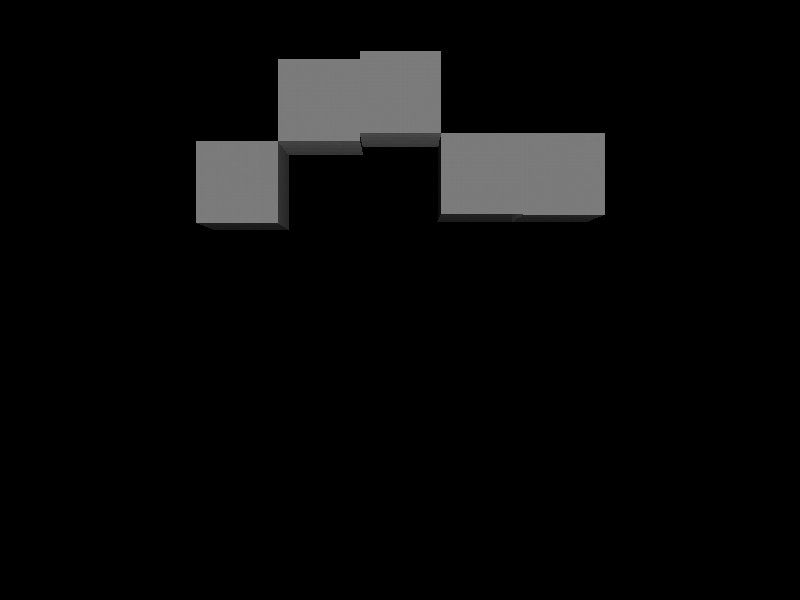
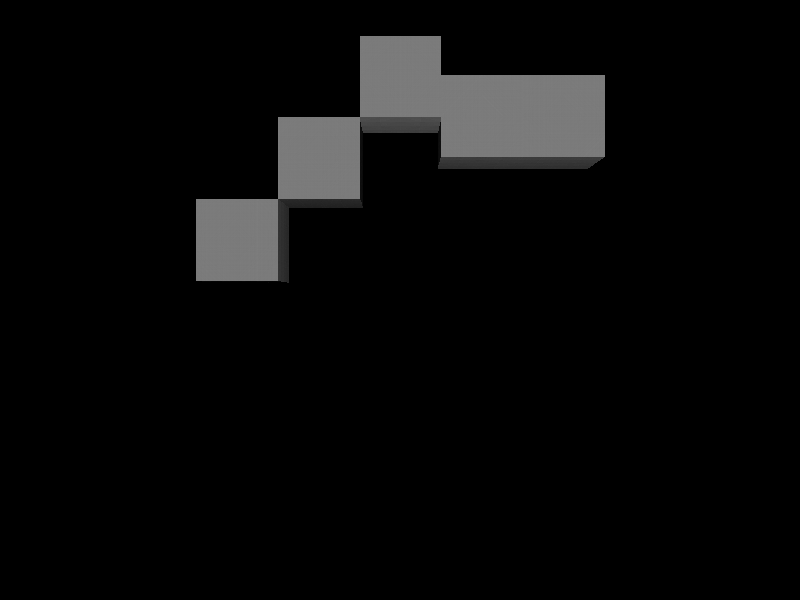
Draw z buffer

Changed region(s): [[0.2188, 0.06, 0.7812, 0.48]]

diff --git a/src/software_renderer.c b/src/software_renderer.c
@@ -4,6 +4,8 @@ static render_state RenderState;
 
 static mat4 Proj;
 
+#define DRAW_Z_BUFFER 1
+
 inline i32 Barycentric(v3 A, v3 B, v3 C) {
   i32 Result = 0;
 
@@ -78,10 +80,15 @@ inline void DrawFilledTriangle(framebuffer* FrameBuffer, i32* ZBuffer, v3 A, v3 
         Z += (B.Z * W1);
         Z += (C.Z * W2);
 
-        i32 Index = P.X + (P.Y * FrameBuffer->Width);
+        i32 Index = ((FrameBuffer->Height - P.Y) * FrameBuffer->Width) + P.X;
         if (ZBuffer[Index] > Z) {
           ZBuffer[Index] = Z;
+#if DRAW_Z_BUFFER
+          u8 Value = Abs(ZBuffer[Index]);
+          DrawPixel(FrameBuffer, P.X, P.Y, Value, Value, Value);
+#else
           DrawPixel(FrameBuffer, P.X, P.Y, ColorR, ColorG, ColorB);
+#endif
         }
       }
     }
@@ -134,10 +141,7 @@ static void DrawMesh(framebuffer* FrameBuffer, i32* ZBuffer, mesh* Mesh, v3 P, v
 
     v3 LightNormal = NormalizeVec3(DifferenceV3(Light, V[0]));
     float LightFactor = Clamp(DotVec3(N, LightNormal) * LightStrength, 0, 1.0f);
-#if 0
-    if (LightFactor < 0)
-      continue;
-#endif
+
     v3 CameraNormal = V3(0, 0, -1);
     float DotValue = DotVec3(CameraNormal, N);
     if (DotValue < 0) {
@@ -163,6 +167,7 @@ i32 RendererInit(u32 Width, u32 Height) {
   Proj = Perspective(50, (float)Win.Width / Win.Height, 0.1f, 500);
   return 0;
 }
+
 
 static void RendererSwapBuffers() {
   WindowSwapBuffers(&RenderState.FrameBuffer);

diff --git a/src/game.c b/src/game.c
@@ -25,7 +25,7 @@ static void GameStateInit(game_state* Game) {
   }
 }
 
-static void OutputZBufferToFile() {
+static void OutputZBufferToFile(const char* Path) {
   image Image;
   Image.Width = Win.Width;
   Image.Height = Win.Height;
@@ -40,7 +40,7 @@ static void OutputZBufferToFile() {
     color* Pixel = (color*)&Image.PixelBuffer[Index * 4];
     *Pixel = Color;
   }
-  StorePNGFromSource("zbuffer.png", &Image);
+  StorePNGFromSource(Path, &Image);
   free(Image.PixelBuffer);
 }
 
@@ -63,7 +63,7 @@ static void GameRun(game_state* Game) {
     RendererSwapBuffers();
     RendererClear(2, 15, 40);
   }
-  OutputZBufferToFile();
+  OutputZBufferToFile("zbuffer.png");
   MeshUnload(&Mesh);
 }
 
